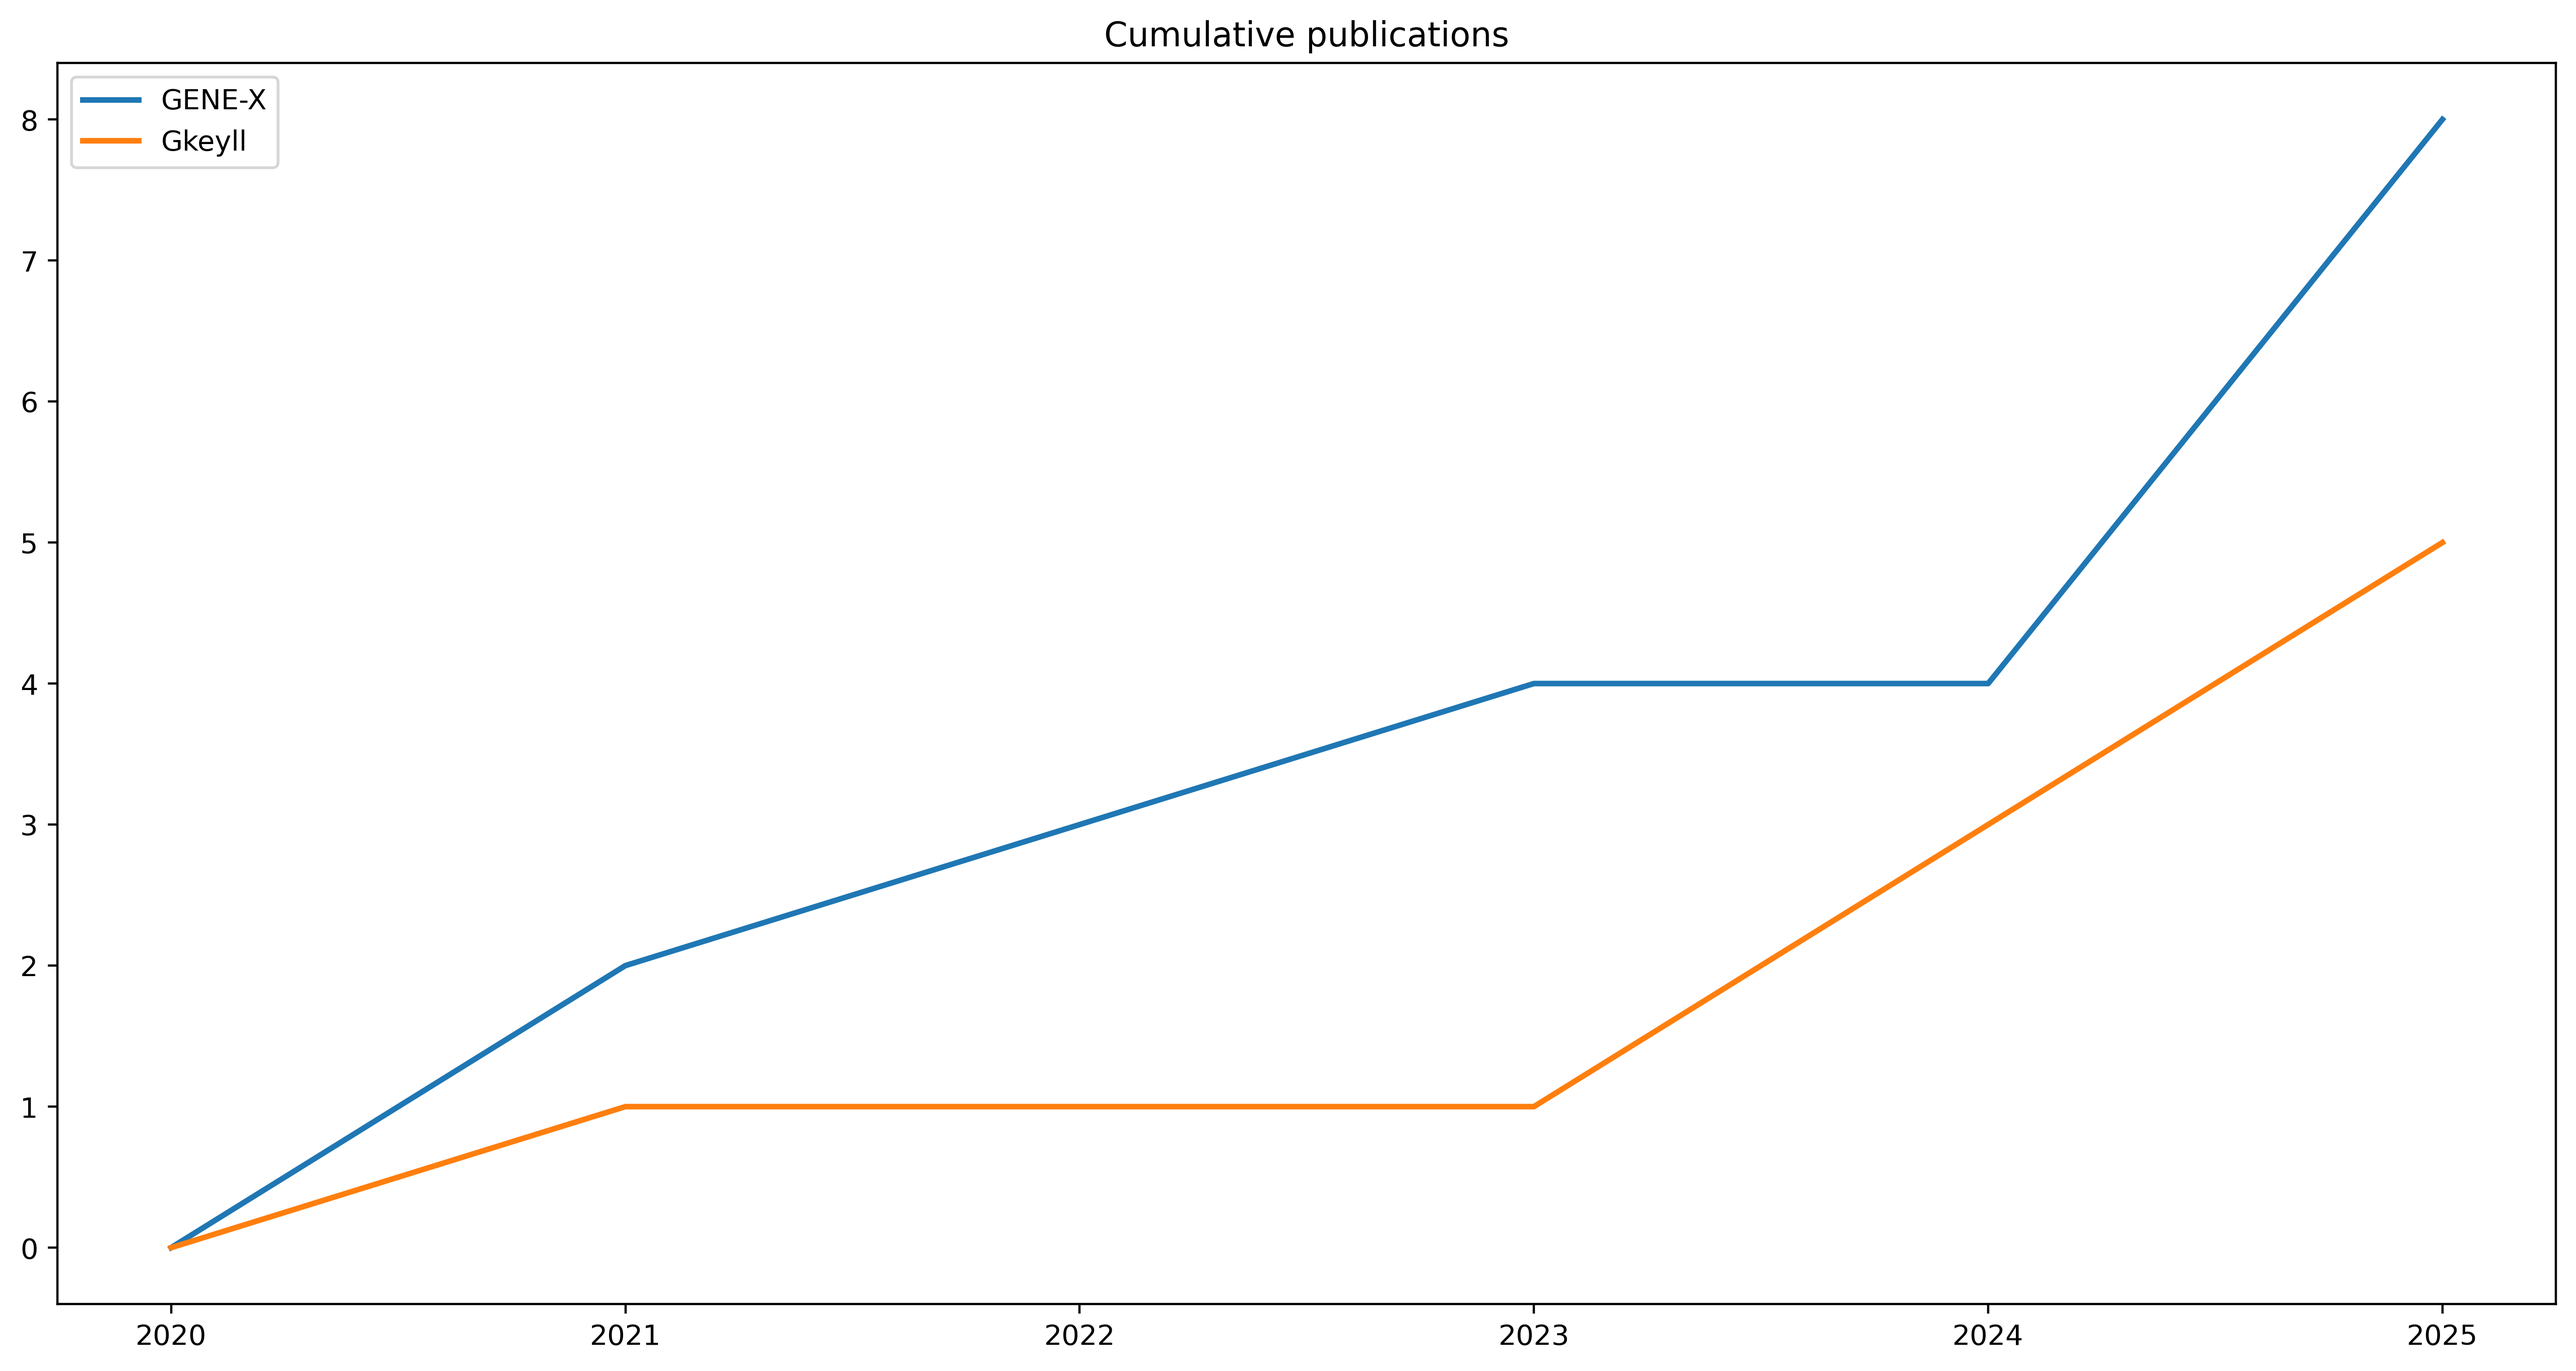
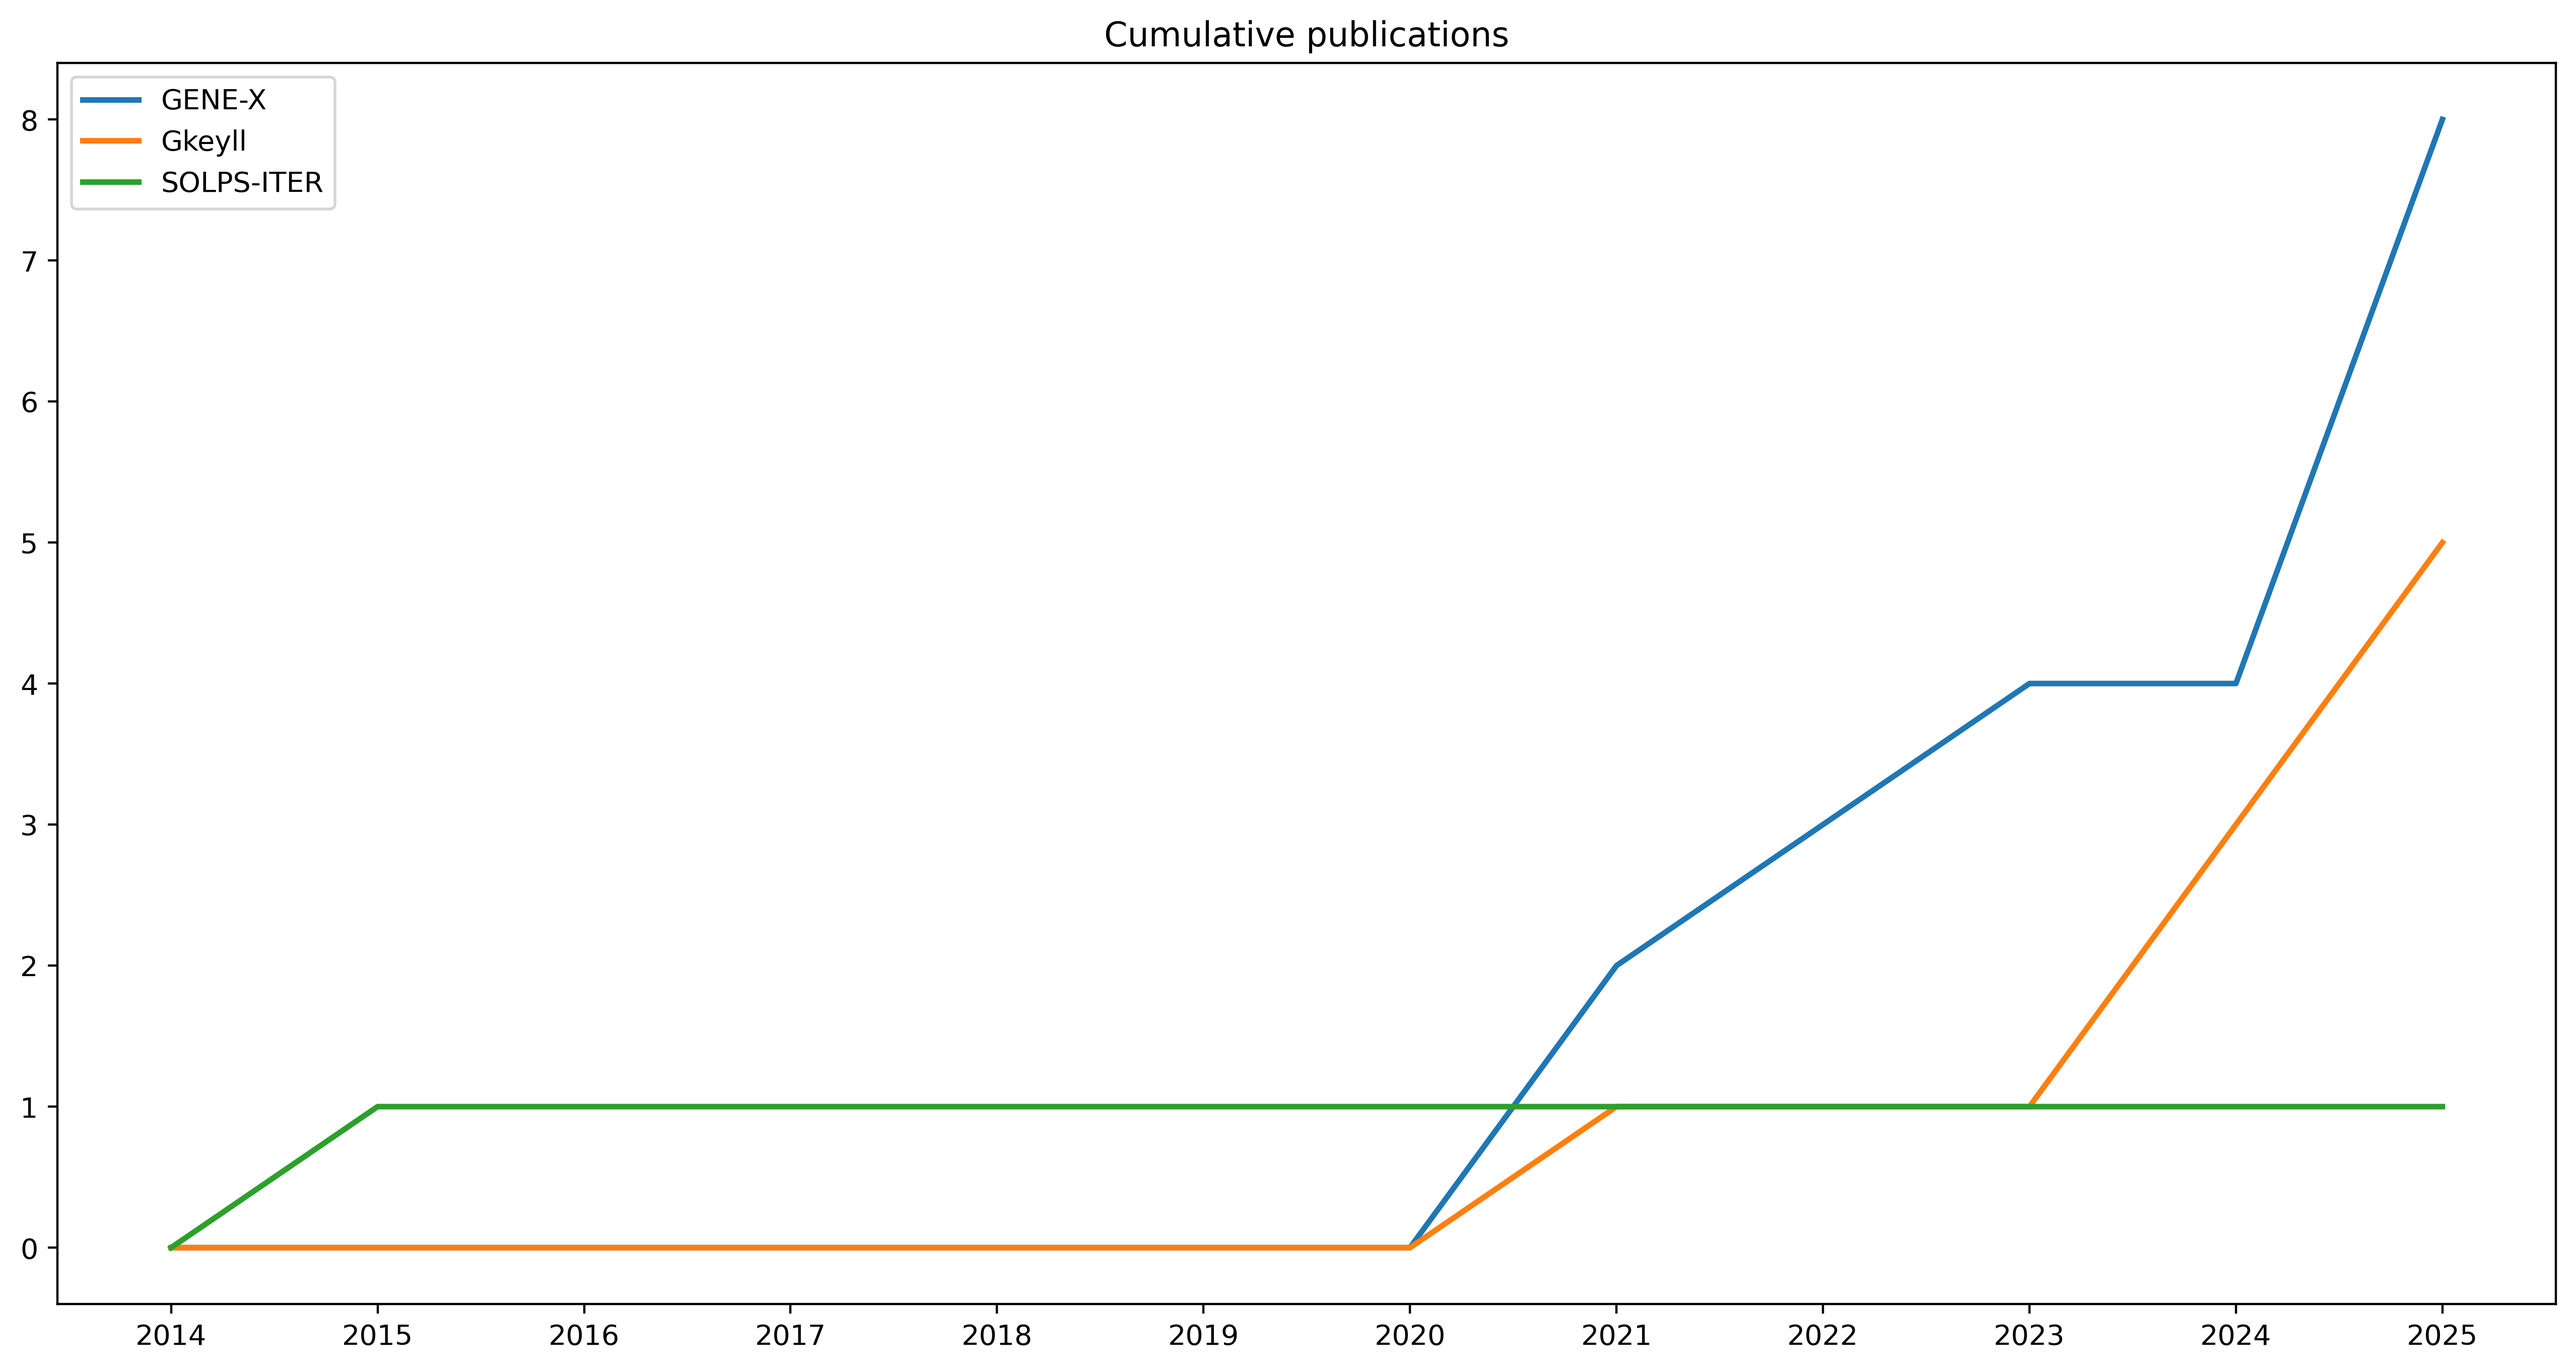
feat: add "10.1016/j.jnucmat.2014.10.012"

diff --git a/README.md b/README.md
@@ -17,6 +17,7 @@
 - A boundary value "reservoir problem" and boundary conditions for multi-moment multifluid simulations of sheaths. Cagas at el. (2021) [10.1063/5.0024510](https://doi.org/10.1063/5.0024510)
 - GENE-X: A full-*f* gyrokinetic turbulence code based on the flux-coordinate independent approach. Michels at el. (2021) [10.1016/j.cpc.2021.107986](https://doi.org/10.1016/j.cpc.2021.107986)
 - Implementation and verification of a conservative, multi-species, gyro-averaged, full-*f*, Lenard-Bernstein/Dougherty collision operator in the gyrokinetic code GENE-X. Ulbl at el. (2021) [10.1002/ctpp.202100180](https://doi.org/10.1002/ctpp.202100180)
+- The new SOLPS-ITER code package. Wiesen at el. (2015) [10.1016/j.jnucmat.2014.10.012](https://doi.org/10.1016/j.jnucmat.2014.10.012)
 
 ## Codes
 
